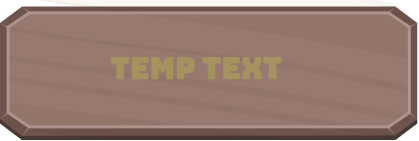
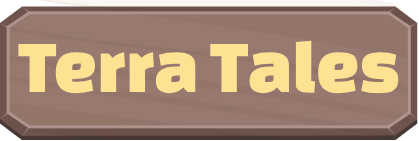
save - Zoom removed: no errors

Changed region(s): [[0.031, 0.2837, 0.9618, 0.6809]]

diff --git a/main.py b/main.py
@@ -27,43 +27,33 @@ def get_font(size): # Returns Press-Start-2P in the desired size
     return pygame.font.Font("assets/BungeeLayers-Outline.otf", size)
 
 def welcome_screen():
-    frame_rate = 15 #Fade frame rate control
-    font_size = 128 #Initial font size
+    frame_rate = 10 #Fade frame rate control
+    font_size = 128 #Font size
     alpha_rate = 4 #Rate of opacity increase
-    x=1 #Exponential constant
     font = pygame.font.Font(None, font_size)
     screen.fill((30,30,30))
-    orig_surf = font.render('Game Name', True, 'chartreuse4')
+    orig_surf = font.render('Terra Tales', True, 'chartreuse4')
     txt_surf = orig_surf.copy() #This surface is used to adjust the alpha of the txt_surf
     txt_surf_rect = txt_surf.get_rect(center=(SCREEN_WIDTH//2, SCREEN_HEIGHT//2))
     alpha_surf = pygame.Surface(txt_surf.get_size(), pygame.SRCALPHA)
     alpha = 0  #The current alpha value of the surface
 
-    while font_size<5800:
+    while alpha <255 :
         for event in pygame.event.get():
             if event.type == pygame.QUIT:
                 return
             
-        if alpha < 255:
-            #Reduce alpha each frame, but make sure it doesn't get below 0
-            alpha = min(alpha+alpha_rate, 255)
-            txt_surf = orig_surf.copy()  #Fill alpha_surf with this color to set its alpha value
-            alpha_surf.fill((255, 255, 255, alpha))
-            txt_surf.blit(alpha_surf, (0, 0), special_flags=pygame.BLEND_RGBA_MULT)
-            alpha_rate += 1
-            time.sleep(1/frame_rate)
-        else:
-            font_size += 16^x
-            font = pygame.font.Font(None, font_size)
-            txt_surf = font.render('Game Name', True, 'chartreuse4')
-            txt_surf_rect = txt_surf.get_rect(center=(SCREEN_WIDTH//2, SCREEN_HEIGHT//2))
-            x+=1
-            
+        #Reduce alpha each frame, but make sure it doesn't get below 0
+        alpha = min(alpha+alpha_rate, 255)
+        txt_surf = orig_surf.copy()  #Fill alpha_surf with this color to set its alpha value
+        alpha_surf.fill((255, 255, 255, alpha))
+        txt_surf.blit(alpha_surf, (0, 0), special_flags=pygame.BLEND_RGBA_MULT)
+        alpha_rate += 1
+        time.sleep(1/frame_rate)
 
         screen.fill((30,30,30))
         screen.blit(txt_surf, txt_surf_rect)
         pygame.display.flip()
-        clock.tick(30)
 
     user_auth_menu()
 
@@ -102,8 +92,19 @@ def user_auth_menu():
         pygame.display.update()
 
 def registration_menu():
-    time.sleep(5)
-    pygame.quit()
+    while True:
+        screen.blit(login_bg, (0, 0))
+        screen.blit(name_back, (200,40))
+
+
+
+        for event in pygame.event.get():
+            if event.type == pygame.QUIT:
+                pygame.quit()
+                sys.exit()
+            
+  
+        pygame.display.update()
 
 def login_menu():
     time.sleep(0.1)

diff --git a/text_box.py b/text_box.py
@@ -1,0 +1,3 @@
+class text_box():
+    def __init__(self):
+        pass
